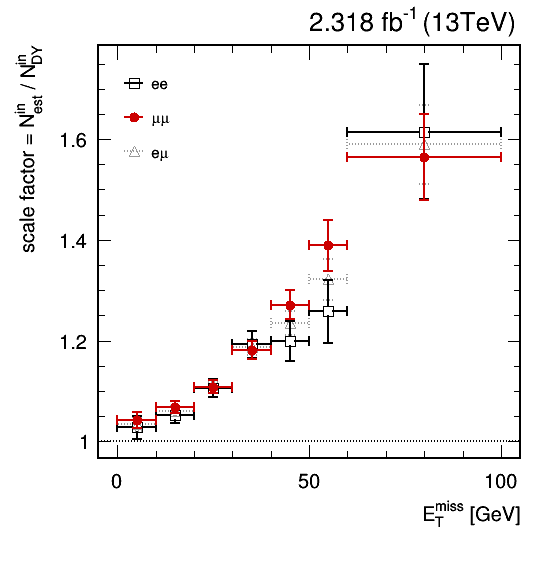
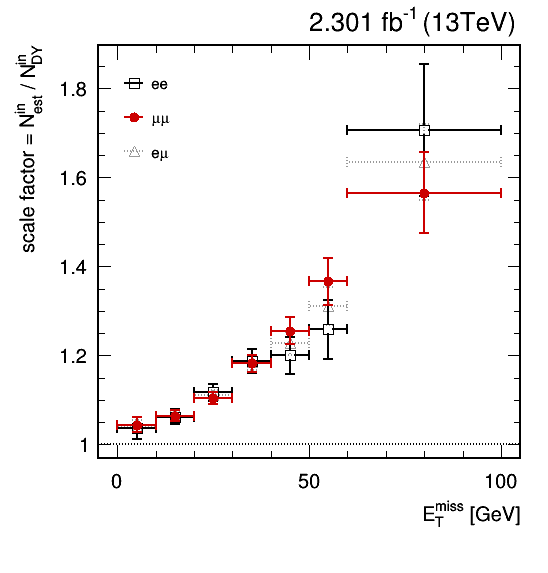
Minor changes

diff --git a/datadriven/getDYScale.C b/datadriven/getDYScale.C
@@ -122,8 +122,8 @@ int          bin_metmax;
 //
 //~~~~~~~~~~~~~~~~~~~~~~~~~~~~~~~~~~~~~~~~~~~~~~~~~~~~~~~~~~~~~~~~~~~~~~~~~~~~~~
 void getDYScale(TString analysis = "Control",
-		TString level    = "01_Routin",
-		double  lumi_fb  = 2.318)
+		TString level    = "02_Routin",
+		double  lumi_fb  = 2.301)
 {
   gInterpreter->ExecuteMacro("../test/PaperStyle.C");
 
